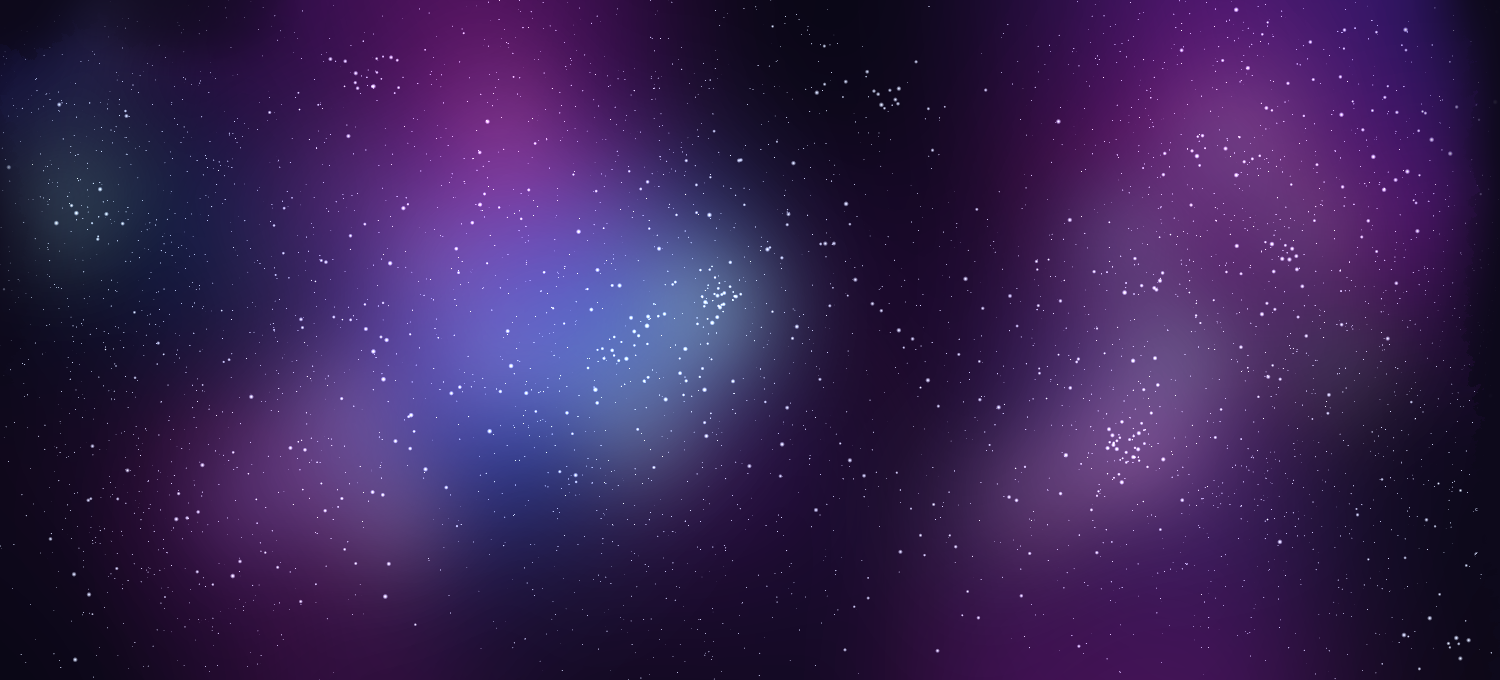
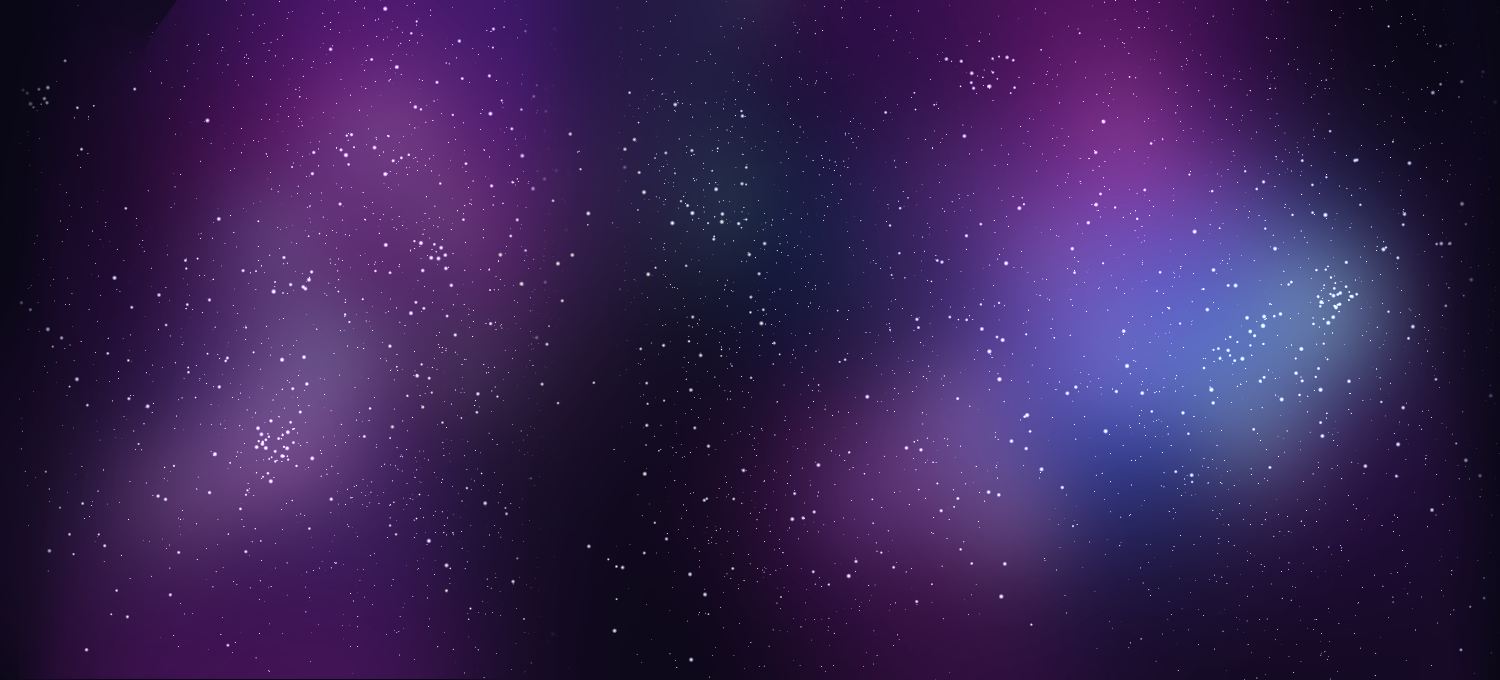
New dark and river / obstacles adjust / fox adjust

diff --git a/src/scenes/Play.js b/src/scenes/Play.js
@@ -8,8 +8,8 @@ class Play extends Phaser.Scene {
         this.input.keyboard.enabled = true;
         this.obstacleSpeed = -450;
         // this.obstacleSpeed = -1500;
-        this.obstacleMin = 4000;
-        this.obstacleMax = 5000;
+        this.obstacleMin = 200;
+        this.obstacleMax = 300;
         this.obstacleSpreadMin = 850;
         this.obstacleSpreadMax = -2500;
         this.JUMP_VELOCITY = -750;
@@ -35,8 +35,6 @@ class Play extends Phaser.Scene {
         this.scoreTimer = this.time.addEvent({
             delay: 1000,
             callback: () => {
-                // this.score += 1;
-                // this.trueScore += 1;
                 this.trueScore += Math.floor(this.scoreTimer.getOverallProgress() * 5 * this.SCORE_MULTIPLIER);
             },
             loop: true
@@ -45,19 +43,19 @@ class Play extends Phaser.Scene {
         this.backgroundImage = this.add.tileSprite(0, 0, game.config.width, game.config.height, `${this.fox_sprite[this.level - 1]}_bg`).setOrigin(0).setDepth(-99999).setScale(1,1.4);
 
         // create player sprite
-        this.fox = this.physics.add.sprite(game.config.width / 5, game.config.height - 3 * tileSize + 22, 'fox_atlas', `${this.fox_sprite[this.level - 1]}_sprite1`).setOrigin(1);
+        this.fox = this.physics.add.sprite(game.config.width / 5, game.config.height - 35, 'fox_atlas', `${this.fox_sprite[this.level - 1]}_sprite1`).setOrigin(1);
 
         // make ground tiles group (actual ground)
         this.ground = this.add.group();
         for(let i = 0; i < game.config.width; i += tileSize) {
-            let groundTile = this.physics.add.sprite(i, game.config.height - tileSize, 'tile_block').setOrigin(0);
+            let groundTile = this.physics.add.sprite(i, game.config.height - 25, 'blank_tile').setOrigin(0);
             groundTile.body.immovable = true;
             groundTile.body.allowGravity = false;
             this.ground.add(groundTile);
         }
 
         // pseudo ground
-        this.groundScroll = this.add.tileSprite(0, game.config.height-tileSize, game.config.width, tileSize, `${this.fox_sprite[this.level - 1]}_tile`).setOrigin(0);
+        this.groundScroll = this.add.tileSprite(0, game.config.height-tileSize, game.config.width, tileSize, `${this.fox_sprite[this.level - 1]}_tile`).setOrigin(0).setScale(1.1);
 
         // add physics collider
         this.physics.add.collider(this.fox, this.ground);
@@ -118,25 +116,12 @@ class Play extends Phaser.Scene {
         this.add.image(0,0,'dream_border').setOrigin(0).setDepth(9999999);
     } // end of create()
 
-
     spawnObstacle() {
         if (!this.gamePaused && !this.gameOver){
+            // this.currentTime = new Date();
+            // console.log(this.currentTime.getHours() + ":" + this.currentTime.getMinutes() + ":" + this.currentTime.getSeconds());
             let obstacle = new Obstacle(this, this.obstacleSpeed, 'obstacle', `${this.fox_sprite[this.level-1]}_obs`);     // create new obstacle
-            obstacle.x += Phaser.Math.Between(0,1000);
-            obstacle.x *= Phaser.Math.Between(1,2);
             obstacle.setDepth(-999);
-            if((this.prevObstacle - obstacle.x >= this.obstacleSpreadMin || this.prevObstacle - obstacle.x <= this.obstacleSpreadMax) ||
-            (this.prevObstacle - obstacle.x >= -1000 || this.prevObstacle - obstacle.x <= 500)){
-                console.log(`Canceled spawn @ ${obstacle.x}px Prev: ${this.prevObstacle}px`);
-                console.log(`Res: ${this.prevObstacle - obstacle.x}`);
-                this.prevObstacle = undefined;
-                obstacle.destroy();
-                return;
-            }
-            console.log(`Spawned in ${this.obstacleClock.delay}s @ ${obstacle.x}px Prev: ${this.prevObstacle}px`);
-            console.log(`Res: ${this.prevObstacle - obstacle.x}`);
-            this.prevObstacle = obstacle.x;
-            this.prevObstacle = obstacle.x;
             this.obstacles.add(obstacle);
         }
     }
@@ -147,7 +132,7 @@ class Play extends Phaser.Scene {
             this.backgroundImage.tilePositionX += this.SCROLL_SPEED;
             this.groundScroll.tilePositionX += this.SCROLL_SPEED;
             
-            // this.clock.delay = Math.ceil(Math.exp(Math.random()*(Math.log(this.obstacleMax)-Math.log(this.obstacleMin)))*this.obstacleMin);
+            this.obstacleClock.delay = Phaser.Math.Between(this.obstacleMin,this.obstacleMax) * Phaser.Math.Between(10,50) * Phaser.Math.Between(1,2);
             
             this.jumpUpdate();
                       
@@ -157,11 +142,11 @@ class Play extends Phaser.Scene {
 
                 // this.SCORE_MULTIPLIER *= 1.2;
                 this.level += 1;
-                this.cameras.main.flash(2000);
+                this.cameras.main.flash(2500);
                 this.obstacles.clear(true,true);
                 this.obstacleSpeed -= 150;
                 this.obstacleClock.delay -= 220;
-                this.obstacleSpreadMin -= 15;
+                this.obstacleMin -= 20;
                 this.SCROLL_SPEED += 1;
 
                 // update music
@@ -187,12 +172,12 @@ class Play extends Phaser.Scene {
                 // update fox sprite
                 this.fox.destroy();
                 this.run = this.fox_sprite[this.level - 1] + '_run';
-                this.fox = this.physics.add.sprite(game.config.width / 5 + 100, game.config.height - 3 * tileSize + 22, 'fox_atlas', `${this.fox_sprite[this.level - 1]}_sprite1`).setOrigin(1);
+                this.fox = this.physics.add.sprite(game.config.width / 5 + 100, game.config.height - 25, 'fox_atlas', `${this.fox_sprite[this.level - 1]}_sprite1`).setOrigin(1);
                 this.physics.add.collider(this.fox, this.ground);
 
                 // update ground
                 this.groundScroll.destroy();
-                this.groundScroll = this.add.tileSprite(0, game.config.height-tileSize, game.config.width, tileSize, `${this.fox_sprite[this.level - 1]}_tile`).setOrigin(0);
+                this.groundScroll = this.add.tileSprite(0, game.config.height-tileSize, game.config.width, tileSize, `${this.fox_sprite[this.level - 1]}_tile`).setOrigin(0).setScale(1.1);
 
                 // i-frame buffer
                 this.collisionOn = false;

diff --git a/src/scenes/Menu.js b/src/scenes/Menu.js
@@ -10,8 +10,8 @@ class Menu extends Phaser.Scene {
             bgMusic.play();
         }
         this.input.keyboard.enabled = false;
-        this.cameras.main.fadeIn(1500);
-        this.time.delayedCall(1400, () => {this.input.keyboard.enabled = true;});
+        this.cameras.main.fadeIn(1000);
+        this.time.delayedCall(1000, () => {this.input.keyboard.enabled = true;});
         
         this.selected = 1;
         
@@ -25,7 +25,7 @@ class Menu extends Phaser.Scene {
             alpha: 1,
             ease: 'Linear',
             duration: 1500,
-            delay: 2000
+            delay: 1200
         });
 
         this.dreamBorder = this.add.image(0,0,'dream_border').setOrigin(0).setDepth(9999);
@@ -35,7 +35,7 @@ class Menu extends Phaser.Scene {
             alpha: 0.5,
             ease: 'Linear',
             duration: 1500,
-            delay: 3000
+            delay: 1200
         });
         
         //start buttons
@@ -123,29 +123,21 @@ class Menu extends Phaser.Scene {
             resetOnMatch: true,
             deleteOnMatch: true,
         });
-
+        this.collisionDebugText = this.add.text(3*game.config.width/4, 3*game.config.height/4, 'Collision are currently off!').setOrigin(0.5);
+        this.collisionDebugText.alpha = 0;
         this.input.keyboard.on('keycombomatch', (facadeDebug) => {
             collisionDebug = !collisionDebug;
-            if (collisionDebug){
-                this.add.tween({
-                    targets: this.add.text(game.config.width/2, game.config.height/4 + 100, 'Collisions off!', facadeConfig).setOrigin(0.5),
-                    alpha: {from: 1, to: 0},
-                    duration: 3000,
-                    ease: 'Linear'
-                });
-            }
-            else if (!collisionDebug){
-                this.add.tween({
-                    targets: this.add.text(game.config.width/2, game.config.height/4 + 100, 'Collisions on!', facadeConfig).setOrigin(0.5),
-                    alpha: {from: 1, to: 0},
-                    duration: 3000,
-                    ease: 'Linear'
-                });
-            }
         });
     }
 
     update(){
+        if (collisionDebug){
+            this.collisionDebugText.alpha = 1;
+        }
+        else if (!collisionDebug){
+            this.collisionDebugText.alpha = 0;
+        }
+
         // set up Phaser-provided cursor key input
         cursors = this.input.keyboard.createCursorKeys();
         keyENTER = this.input.keyboard.addKey(Phaser.Input.Keyboard.KeyCodes.ENTER);

diff --git a/src/scenes/Load.js b/src/scenes/Load.js
@@ -23,13 +23,14 @@ class Load extends Phaser.Scene {
         this.load.path = "./assets/tiles/";
         this.load.image('fox1_tile', 'meadow_tile.png');
         this.load.image('fox2_tile', 'forest_tile.png');
-        this.load.image('fox3_tile', 'cloud_tile.png');
+        this.load.image('fox3_tile', 'blank_tile.png');
         this.load.image('fox4_tile', 'river_tile.png');
         this.load.image('fox5_tile', 'volcano_tile.png');
         this.load.image('fox6_tile', 'meadow_tile.png');
-        this.load.image('fox7_tile', 'light_tile.png');
-        this.load.image('fox8_tile', 'dark_tile.png');
-        this.load.image('fox9_tile', 'final_tile.png');
+        this.load.image('fox7_tile', 'blank_tile.png');
+        this.load.image('fox8_tile', 'blank_tile.png');
+        this.load.image('fox9_tile', 'blank_tile.png');
+        this.load.image('blank_tile', 'blank_tile.png');
 
         this.load.path = "./assets/ost/";
         this.load.audio('menu_ost', 'I_Am_Different.mp3');

diff --git a/src/prefabs/Obstacle.js b/src/prefabs/Obstacle.js
@@ -1,7 +1,7 @@
 class Obstacle extends Phaser.Physics.Arcade.Sprite {
     constructor(scene, velocity, atlas, texture) {
         // call Phaser Physics Sprite constructor
-        super(scene, game.config.width, game.config.height - 50, atlas, texture);
+        super(scene, game.config.width, game.config.height - 35, atlas, texture);
         // set up physics sprite
         scene.add.existing(this);               // add to existing scene, displayList, updateList
         scene.physics.add.existing(this);       // add physics body

diff --git a/src/scenes/GameOver.js b/src/scenes/GameOver.js
@@ -90,8 +90,8 @@ class GameOver extends Phaser.Scene {
                     duration: 1500,
                 });
                 this.time.delayedCall(1500, () => {bgMusic.stop();});
-                this.cameras.main.fadeOut(1500);
-                this.time.delayedCall(1500, () => {this.scene.start("menuScene");})
+                this.cameras.main.fadeOut(1000);
+                this.time.delayedCall(1000, () => {this.scene.start("menuScene");})
             }
         }
     }
